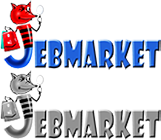
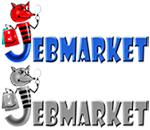
fixed upload image problem, fixed slider, fixed homepage content layout, fixed menu dropdown fixed IE problem

Changed region(s): [[0.0, 0.0, 1.0, 1.0], [0.24, 0.5231, 0.2667, 0.5538]]

diff --git a/webapp/themes/jebmarket/css/theme.css b/webapp/themes/jebmarket/css/theme.css
@@ -110,16 +110,18 @@ label {
     right: auto;
     text-shadow: 0 0 0 none;
     width: 100%;
-    left: initial;
-    padding: 0 15px;
+    left: inherit;
+    padding: 0 10px;
 }
 .carousel-caption h1 {
     color: #837EFF;
     font-size: 28px;
     font-weight: 400;
-    line-height: 40px;
-    padding-bottom: 7px;
+    line-height: 35px;
+    padding-bottom: 0px;
     text-shadow: 0 1px 1px #000;
+    margin: 15px 0 0 0;
+    padding: 0;
 }
 .slide-3 .carousel-caption h1, .slide-3 .carousel-caption p {
     text-shadow: 0 1px 2px rgba(0,0,0,0.6);
@@ -205,22 +207,18 @@ label {
 }
 .navbar-brand.logo {
     display: block;
-    width: 161px;
-    height: 70px;
+    width: 94px;
+    height: 42px;
     text-indent: -9999px;
-    background: url(../images/jebmarket.png) no-repeat 0 0px;
+    background: url(../images/jebmarket-mobile-logo.png) no-repeat 0 0px;
     -webkit-transition: background 0.5s;
     -moz-transition: background 0.5s;
     transition: background 0.5s;
     float: left;
-    margin: -6px 0 -63px -42px;
-    transform: scale(0.6);
-    -webkit-transform: scale(0.6);
-    -moz-transform: scale(0.6);
-    -0-transform: scale(0.6);
+    margin: 7px 0 -63px -12px;
 }
 .navbar-brand.logo:hover {
-    background-position: 0 -70px;
+    background-position: 0 -41px;
 }
 .navbar-inverse .navbar-nav>.active>a, .navbar-inverse .navbar-nav>.active>a:hover, .navbar-inverse .navbar-nav>.active>a:focus {
     background-color: #4090de;
@@ -451,7 +449,7 @@ u .divider a {
     background-color: #2755a5;
 }
 .carousel-caption {
-    bottom: 50%;
+    bottom: inherit;
     text-align: center;
 }
 .mini-signup-form-wrapper {
@@ -464,7 +462,20 @@ u .divider a {
     margin-left: -30%;
     text-align: center;
     list-style: none;
-    bottom: 15%;
+    bottom: 35%;
+}
+.navbar-inverse .navbar-collapse, .navbar-inverse .navbar-form {
+    border-color: #101010;
+    position: absolute;
+    background-color: #000;
+    margin: 0;
+    padding: 0;
+    right: -1px;
+    width: 162px;
+    overflow-x: hidden;
+}
+.navbar-nav .open .dropdown-menu>li>a, .navbar-nav .open .dropdown-menu .dropdown-header {
+    padding: 3px 15px 3px 18px;
 }
 @media screen and (min-width: 768px) {
     .mini-signup-form {
@@ -554,12 +565,17 @@ form .alert {
 .bs-callout h4{
     font-size: 15px;
 }
+.homepage{
+    text-align: center;
+}
 /* Small devices (tablets, 768px and up) */
 @media (min-width: 768px) {
     .carousel-caption h1 {
         font-size: 40px;
         font-weight: 600;
         line-height: 65px;
+        width: 500px;
+        left: 0;
     }
     .carousel-caption {
         bottom: 40%;
@@ -569,11 +585,19 @@ form .alert {
         font-size: 25px;
     }
     .navbar-brand.logo {
-        margin: -3px 0 0 -10px;
-        transform: scale(0.9);
-        -webkit-transform: scale(0.9);
-        -moz-transform: scale(0.9);
-        -0-transform: scale(0.9);
+        margin: 1px 0 0 -10px;
+        display: block;
+        width: 150px;
+        height: 65px;
+        text-indent: -9999px;
+        background: url(../images/jebmarket.png) no-repeat 0 0px;
+        -webkit-transition: background 0.5s;
+        -moz-transition: background 0.5s;
+        transition: background 0.5s;
+        float: left;
+    }
+    .navbar-brand.logo:hover {
+        background-position: 0 -64px;
     }
     .navbar-top > li > a {
         margin: 5px 0px 0px 10px;
@@ -623,6 +647,20 @@ form .alert {
         margin-top: -10px;
         margin-right: 0;
     }
+    .navbar-inverse .navbar-collapse, .navbar-inverse .navbar-form {
+        border-color: #101010;
+        position: static;
+        background-color: #000;
+        margin: 8px 0 0 0;
+        padding: 0;
+        width: inherit;
+    }
+    .navbar-nav .open .dropdown-menu>li>a, .navbar-nav .open .dropdown-menu .dropdown-header {
+        padding: 5px 15px 5px 25px;
+    }
+    .mini-signup-form-wrapper {
+        bottom: 15%;
+    }
 }
 
 /* Medium devices (desktops, 992px and up) */
@@ -631,6 +669,7 @@ form .alert {
         font-size: 40px;
         font-weight: 600;
         line-height: 65px;
+        width: 500px;
     }
     .carousel-caption {
         bottom: 40%;
@@ -640,11 +679,19 @@ form .alert {
         font-size: 25px;
     }
     .navbar-brand.logo {
-        margin: -3px 0 0 -10px;
-        transform: scale(0.9);
-        -webkit-transform: scale(0.9);
-        -moz-transform: scale(0.9);
-        -0-transform: scale(0.9);
+        margin: 1px 0 0 -10px;
+        display: block;
+        width: 150px;
+        height: 65px;
+        text-indent: -9999px;
+        background: url(../images/jebmarket.png) no-repeat 0 0px;
+        -webkit-transition: background 0.5s;
+        -moz-transition: background 0.5s;
+        transition: background 0.5s;
+        float: left;
+    }
+    .navbar-brand.logo:hover {
+        background-position: 0 -64px;
     }
     .navbar-top > li > a {
         margin: 5px 0px 0px 10px;
@@ -690,6 +737,20 @@ form .alert {
         -0-transform: scale(1);
         margin-top: -10px;
         margin-right: 0;
+    }
+    .navbar-inverse .navbar-collapse, .navbar-inverse .navbar-form {
+        border-color: #101010;
+        position: static;
+        background-color: #000;
+        margin: 8px 0 0 0;
+        padding: 0;
+        width: inherit;
+    }
+    .navbar-nav .open .dropdown-menu>li>a, .navbar-nav .open .dropdown-menu .dropdown-header {
+        padding: 5px 15px 5px 25px;
+    }
+    .mini-signup-form-wrapper {
+        bottom: 15%;
     }
 }
 
@@ -699,6 +760,7 @@ form .alert {
         font-size: 40px;
         font-weight: 600;
         line-height: 65px;
+        width: 500px;
     }
     .carousel-caption {
         bottom: 40%;
@@ -708,11 +770,19 @@ form .alert {
         font-size: 25px;
     }
     .navbar-brand.logo {
-        margin: -3px 0 0 -10px;
-        transform: scale(0.9);
-        -webkit-transform: scale(0.9);
-        -moz-transform: scale(0.9);
-        -0-transform: scale(0.9);
+        margin: 1px 0 0 -10px;
+        display: block;
+        width: 150px;
+        height: 65px;
+        text-indent: -9999px;
+        background: url(../images/jebmarket.png) no-repeat 0 0px;
+        -webkit-transition: background 0.5s;
+        -moz-transition: background 0.5s;
+        transition: background 0.5s;
+        float: left;
+    }
+    .navbar-brand.logo:hover {
+        background-position: 0 -64px;
     }
     .navbar-top > li > a {
         margin: 5px 0px 0px 10px;
@@ -758,5 +828,19 @@ form .alert {
         -0-transform: scale(1);
         margin-top: -10px;
         margin-right: 0;
+    }
+    .navbar-inverse .navbar-collapse, .navbar-inverse .navbar-form {
+        border-color: #101010;
+        position: static;
+        background-color: #000;
+        margin: 8px 0 0 0;
+        padding: 0;
+        width: inherit;
+    }
+    .navbar-nav .open .dropdown-menu>li>a, .navbar-nav .open .dropdown-menu .dropdown-header {
+        padding: 5px 15px 5px 25px;
+    }
+    .mini-signup-form-wrapper {
+        bottom: 15%;
     }
 }

diff --git a/resources/protected/themes/jebmarket/views/site/index.php b/resources/protected/themes/jebmarket/views/site/index.php
@@ -26,8 +26,19 @@ $this->metaKeywords = $page->meta_keywords;
     </ol>
     <div class="carousel-inner">
         <?php $slideIndex = 0; foreach ($slider as $slide) {  ?>
-        <div class="item <?php echo $slide['class'] ?> <?php echo ($slideIndex == 0 )? 'active' : '' ?>">
-            <img src="<?php echo Yii::app()->baseUrl.'/'.Yii::app()->params['sliderImageUrl'].$slide['image'] ?>"  alt="<?php echo $slide['headline']; ?>">
+        <div class="item <?php echo $slide['class'] ?> <?php echo ($slideIndex == 0 )? 'active' : '' ?>"
+             style="
+                background: url(<?php echo Yii::app()->baseUrl.'/'.Yii::app()->params['sliderImageUrl'].$slide['image'] ?>) top center no-repeat;
+                height: 670px;
+                padding: 160px 0 0 0;
+                background-position: 0 30px;
+                border-bottom: 1px solid rgba(0,0,0,0.2);
+                -webkit-background-size: cover;
+                -moz-background-size: cover;
+                -o-background-size: cover;
+                background-size: cover;
+                margin: -110px 0 0;
+                 ">
             <div class="container">
                 <div class="row">
                     <div class="carousel-caption">
@@ -39,6 +50,8 @@ $this->metaKeywords = $page->meta_keywords;
         </div>
         <?php $slideIndex++; } ?>
     </div>
+    <?php $slideIndex = 0; foreach ($slider as $slide) {  ?>
+    <?php $slideIndex++; } ?>
     <!--<a class="left carousel-control" href="#myCarousel" data-slide="prev"><span class="glyphicon glyphicon-chevron-left"></span></a>
     <a class="right carousel-control" href="#myCarousel" data-slide="next"><span class="glyphicon glyphicon-chevron-right"></span></a>-->
 </div>

diff --git a/resources/protected/models/Slider.php b/resources/protected/models/Slider.php
@@ -29,6 +29,7 @@ class Slider extends CActiveRecord {
     public function rules() {
         return array(
             array('headline, content', 'required'),
+            array('image', 'unique', 'message' => 'Image name already used, please change the image name.'),
             array('order', 'numerical', 'integerOnly' => true),
             array('headline', 'length', 'max' => 255),
             array('tag, class', 'length', 'max' => 45),
@@ -98,8 +99,8 @@ class Slider extends CActiveRecord {
         if (is_object($this->image)) {
             $this->image->saveAs($uploadPath . $this->image->name);
             if (!empty($this->oldSlideImage)) {
-                //$delete = Yii::app()->params['uploadPath'] . '/' . $this->oldSlideImage;
-                $delete = $uploadPath . $this->oldSlideImage;
+                $delete = Yii::app()->params['uploadPath'] . '/' . $this->oldSlideImage;
+                //$delete = $uploadPath . $this->oldSlideImage;
                 if (file_exists($delete))
                     unlink($delete);
             }

diff --git a/resources/protected/controllers/SiteController.php b/resources/protected/controllers/SiteController.php
@@ -62,6 +62,7 @@ class SiteController extends Controller {
 
                 mail(Yii::app()->params['adminEmail'], $subject, $model->body, $headers);
 
+                /* Respond email after send Contact form */
                 $respondmail = EmailTemplate::model()->findByAttributes(array('name' => 'contactus_confirmation_email'));
                 $adminemail = Yii::app()->params['adminEmail'];
                 $respondmailheader = "From: $name <{$adminemail}>\r\n" .
